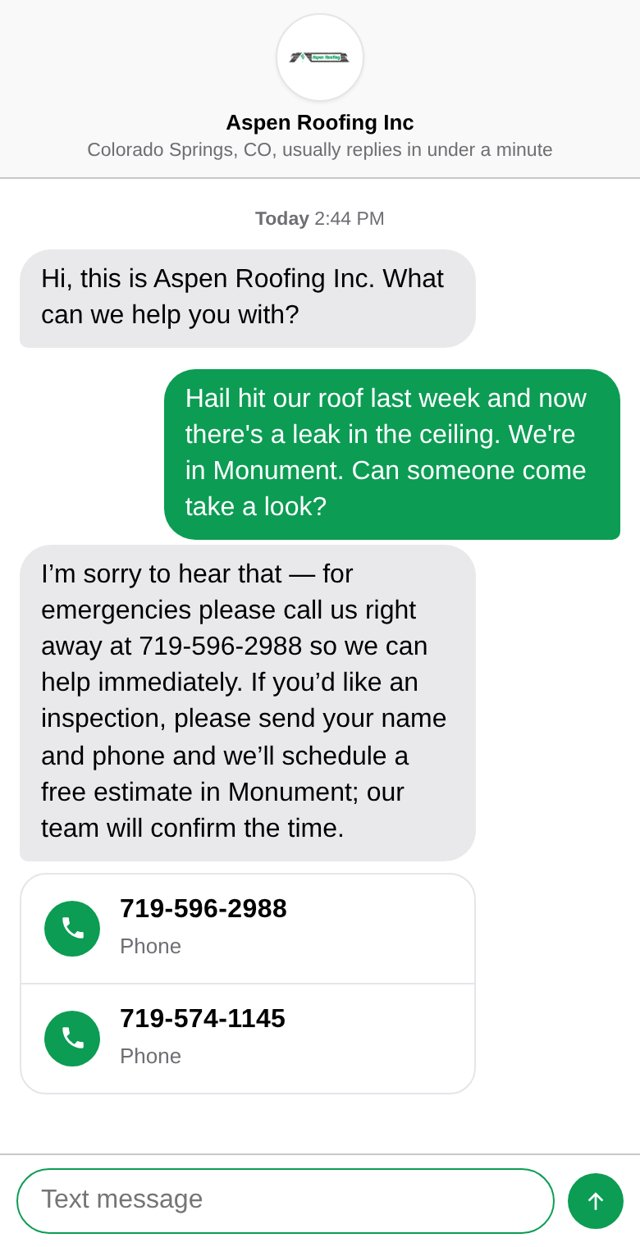
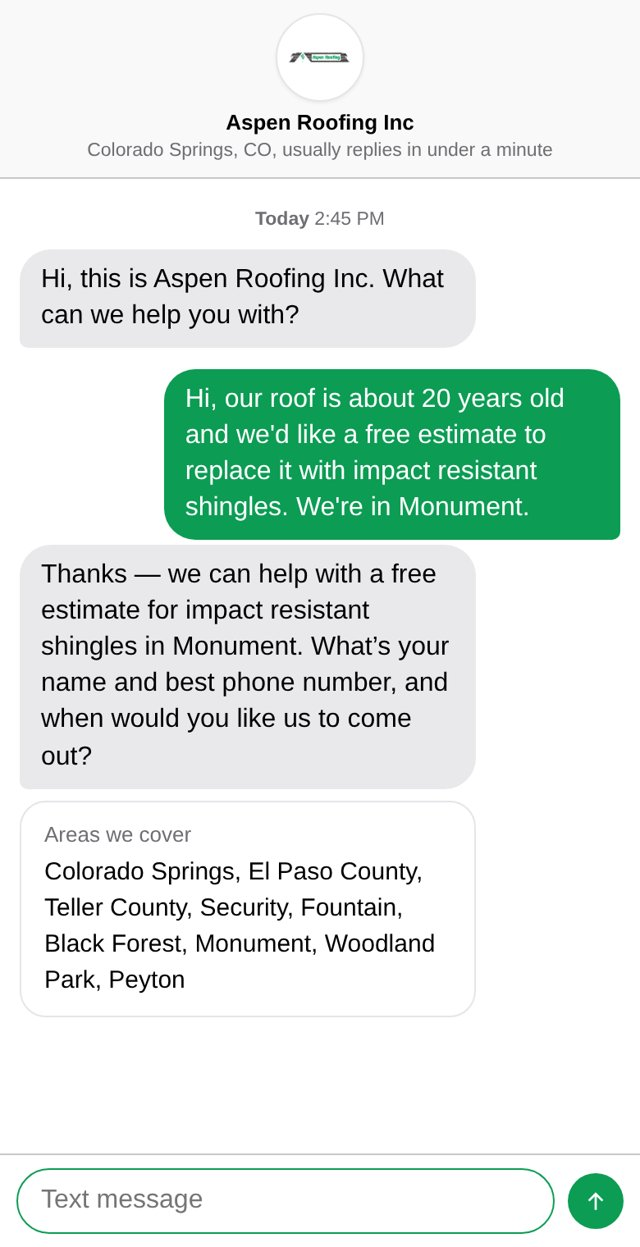
aspen-roofing chat

Changed region(s): [[0.0625, 0.4266, 0.7188, 0.8532], [0.2812, 0.3047, 0.9062, 0.4266], [0.5312, 0.1524, 0.5625, 0.1828]]

diff --git a/aspen-roofing/index.html b/aspen-roofing/index.html
@@ -7,7 +7,7 @@ img.shot{max-width:360px;margin:0 auto 22px}figcaption{text-align:center;font-we
 a.btn{display:block;max-width:420px;margin:0 auto;text-align:center;background:#1f66e0;color:#fff;text-decoration:none;font-weight:700;padding:15px;border-radius:14px;font-size:16px}
 small{display:block;text-align:center;color:#7a8596;margin-top:16px;font-size:12.5px}</style></head><body><main>
 <h1>A website assistant for Aspen Roofing Inc</h1><p>It answers your website visitors instantly, day or night, using only what's on your website, and sends you their name, number and what they need.</p><img class="shot" src="screenshot.jpg" alt="Preview of the assistant on your website">
-<a class="btn" href="https://wpsani.store/demo/d/6202d4a4">Try it live</a>
+<a class="btn" href="https://wpsani.store/demo/d/1169a437">Try it live</a>
 <small>Private demo built by Federico Sanua, independent web developer, sanuafederico@gmail.com</small>
-<img src="https://wpsani.store/demo/p/6202d4a4.gif" width="1" height="1" alt="" style="position:absolute;left:-9999px">
+<img src="https://wpsani.store/demo/p/1169a437.gif" width="1" height="1" alt="" style="position:absolute;left:-9999px">
 </main></body></html>
